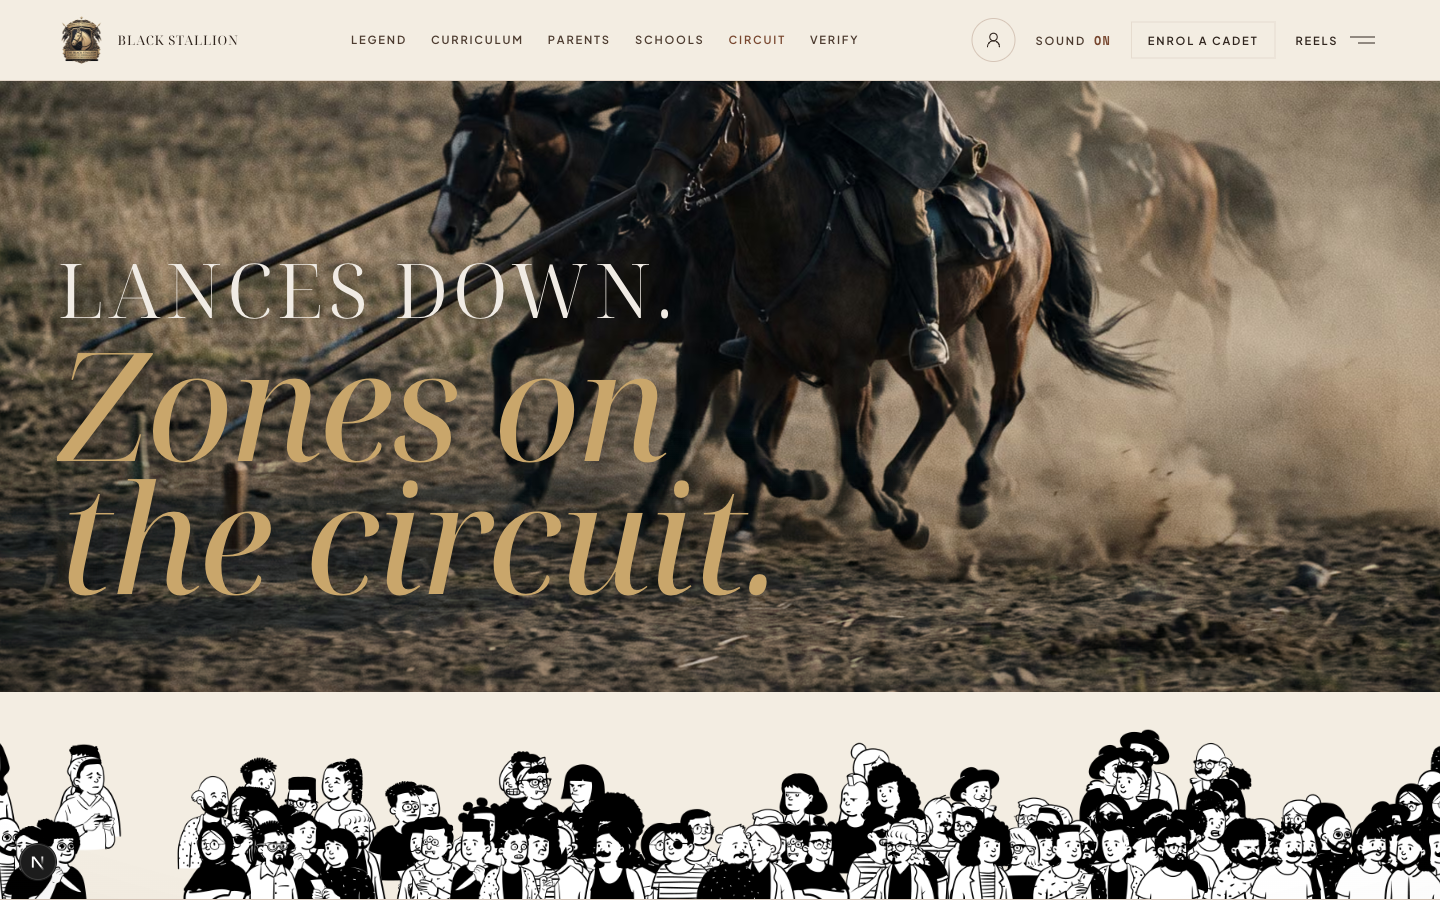
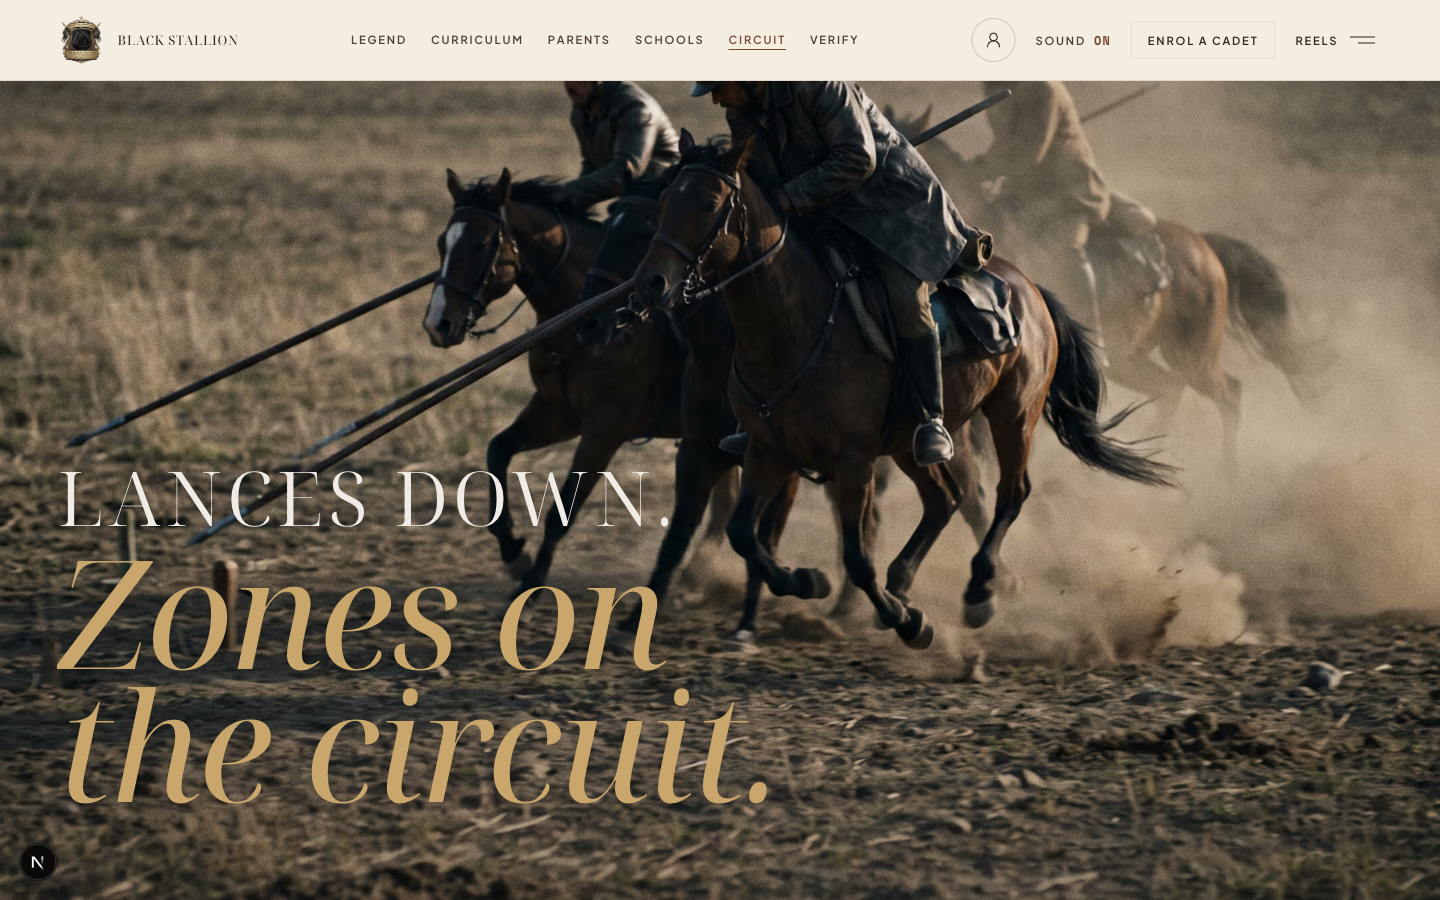
Remove the walking-crowd animation from the whole site; smaller footer badges
- The crowd is gone from /tournaments (title scene and page foot); the title photo is full screen again.
  CrowdCanvas, CircuitCrowd and the sprite sheet are deleted (they stay in git history).
- Footer academy and council badges 56 to 64 px (was 80 to 96); the circuit seal 64 to 80 px.

Typecheck and lint (0 errors) pass; no canvases on /tournaments or in the menu; no sideways scroll at 390 and 1440 px.

diff --git a/components/sections/tournaments/TournamentScenes.tsx b/components/sections/tournaments/TournamentScenes.tsx
@@ -10,7 +10,6 @@ import { FilmImage } from "@/components/film/FilmImage";
 import { Headline } from "@/components/film/Headline";
 import { Arrow, Label, ReelMark } from "@/components/film/Marks";
 import { CountUp } from "@/components/motion/CountUp";
-import { CrowdCanvas } from "@/components/motion/CrowdCanvas";
 import { champions, standings, tournaments } from "@/lib/content/records";
 import { ease } from "@/lib/motion/tokens";
 import { cn } from "@/lib/utils";
@@ -20,7 +19,7 @@ import { CinematicStoryReel, type ReelSlide } from "@/components/film/CinematicS
 export function CircuitTitle() {
   return (
     <section aria-labelledby="circuit-title" className="editorial-scene">
-<div className="tone-dark editorial-visual relative min-h-[calc(100svh-13rem)] overflow-hidden bg-night">
+<div className="tone-dark editorial-visual relative min-h-[100svh] overflow-hidden bg-night">
       <motion.div className="absolute inset-x-0 bottom-0 top-16 md:top-20" initial={{ x: "4%" }} animate={{ x: "0%" }} transition={{ duration: 2.4, ease: ease.citadel }}>
         <FilmImage name="bgCharge" priority bleed />
       </motion.div>
@@ -37,17 +36,12 @@ export function CircuitTitle() {
         ))}
       </div>
       <div aria-hidden className="absolute inset-0 shade-b" />
-      <div className="gutter relative flex min-h-[calc(100svh-13rem)] flex-col justify-end pb-[8vh]">
+      <div className="gutter relative flex min-h-[100svh] flex-col justify-end pb-[8vh]">
         
         <Headline id="circuit-title" as="h1" size="poster" animate="mount" delay={0.4} className="mt-6" inscription="Lances down." voice="Zones on the circuit." />
         
       </div>
     </div>
-{/* The crowd: the people who came to watch walk the foot of the title scene, on the page's ivory (31 Oct 2026; was a mid-page band).
-    The canvas is decorative and stands still under reduced motion. */}
-<div className="tone-light relative h-[13rem] w-full overflow-hidden border-b border-line bg-night">
-  <CrowdCanvas src="/animations/crowd-peeps.png" rows={15} cols={7} scale={0.4} className="absolute bottom-0 h-full w-full" />
-</div>
 {/* The circuit is the council's: its seal stands beside the line that names it (supplied artwork, background removed). */}
 <div className="tone-light editorial-details gutter flex flex-wrap items-center justify-between gap-x-12 gap-y-8">
   <div className="min-w-0 max-w-2xl">
@@ -55,7 +49,7 @@ export function CircuitTitle() {
     <ScrollRevealText className="t-story mt-6 text-sand">The STPCI interscholastic circuit: tent pegging, barrel racing and mounted archery between India&rsquo;s schools.</ScrollRevealText>
   </div>
   <figure className="flex shrink-0 items-center gap-5">
-    <Image src="/brand/stpci-medal.webp" alt="School Tent Pegging Council of India seal" width={720} height={745} className="h-24 w-auto object-contain md:h-28" />
+    <Image src="/brand/stpci-medal.webp" alt="School Tent Pegging Council of India seal" width={720} height={745} className="h-16 w-auto object-contain md:h-20" />
     <figcaption className="label max-w-[12rem] leading-relaxed text-dust">Sanctioned by the School Tent Pegging Council of India</figcaption>
   </figure>
 </div>

diff --git a/components/site/Footer.tsx b/components/site/Footer.tsx
@@ -110,15 +110,15 @@ function PublicFooter() {
       {/* Content block: brand emblem, wordmark, tagline, nav and legal copy */}
       <div className="footer-meridian__content">
         {/* The two seals as supplied (backgrounds removed, nothing redrawn): the academy and its governing council. */}
-        <div className="footer-meridian__mark flex flex-wrap items-end justify-center gap-x-10 gap-y-6">
+        <div className="footer-meridian__mark flex flex-wrap items-end justify-center gap-x-8 gap-y-5">
           <figure className="flex flex-col items-center gap-3">
             {/* The 192 px logo, served as is (unoptimized): it shows at 80 to 96 px, and the image optimiser can flatten a cut-out logo onto a dark square or serve a stale copy of it. */}
-            <Image src={LOGO.sm} alt="The Black Stallion Academy of Horsemanship crest" width={192} height={192} unoptimized className="h-20 w-20 sm:h-24 sm:w-24" />
+            <Image src={LOGO.sm} alt="The Black Stallion Academy of Horsemanship crest" width={192} height={192} unoptimized className="h-14 w-14 sm:h-16 sm:w-16" />
             <figcaption className="label text-[0.62rem]">The academy</figcaption>
           </figure>
-          <span aria-hidden="true" className="hidden h-16 w-px bg-current opacity-25 sm:block" />
+          <span aria-hidden="true" className="hidden h-10 w-px bg-current opacity-25 sm:block" />
           <figure className="flex flex-col items-center gap-3">
-            <Image src="/brand/stpci-medal.webp" alt="School Tent Pegging Council of India seal" width={720} height={745} className="h-20 w-auto object-contain sm:h-24" />
+            <Image src="/brand/stpci-medal.webp" alt="School Tent Pegging Council of India seal" width={720} height={745} className="h-14 w-auto object-contain sm:h-16" />
             <figcaption className="label text-[0.62rem]">The council</figcaption>
           </figure>
         </div>

diff --git a/app/tournaments/page.tsx b/app/tournaments/page.tsx
@@ -1,7 +1,6 @@
 import type { Metadata } from "next";
 import { EndCard } from "@/components/film/EndCard";
 import { CircuitTitle, FixtureBoard, Podium, StandingsLanes, TournamentActionGallery } from "@/components/sections/tournaments/TournamentScenes";
-import { CircuitCrowd } from "@/components/sections/tournaments/CircuitCrowd";
 import { PegRun } from "@/components/sections/tournaments/PegRun";
 import { HorizontalChapter } from "@/components/motion/HorizontalChapter";
 import { ReplayHeadline } from "@/components/motion/ReplayHeadline";
@@ -24,7 +23,6 @@ export default function TournamentsPage() {
       <Podium />
       <ReplayHeadline typeface="condensed" id="tournaments-replay" label="The circuit doctrine" text="Victory belongs to the disciplined rein." tone="dark" defaultMode="words" />
       <EndCard current={13} />
-      <CircuitCrowd />
     </>
   );
 }

diff --git a/docs/ADDED-SCENES.md b/docs/ADDED-SCENES.md
@@ -6,8 +6,7 @@ the colours and the reduced-motion behaviour were made the site's own.
 | Piece | Where | Files |
 | --- | --- | --- |
 | **The robot** | `/command` ("The Command"), the full-screen opening scene: dark band, raking light, one heading and one line, robot on the right (moved from `/science` 31 Oct, owner's request) | `components/sections/command/CommandHero.tsx`, `components/ui/splite.tsx`, `components/ui/spotlight.tsx` |
-| **The walking crowd** | `/tournaments`, the foot of the title scene; and the foot of the reels menu, above the word "Chapters", where the act zones (Hook / Proof / Convert) used to be (31 Oct) | `components/sections/tournaments/TournamentScenes.tsx` (`CircuitTitle`), `components/motion/CrowdCanvas.tsx`, `public/animations/crowd-peeps.png` |
-| **The chart set** | `/admin` (and the SAMPLE preview at `/dev/admin-dashboard`), above the existing dashboard | `components/sections/admin/dashboard/EnquiryBento.tsx`, `components/ui/analytics-bento.tsx` |
+| **The chart set** | `/admin` (and the SAMPLE preview at `/dev/admin-dashboard`), below the Overview and its stat cards | `components/sections/admin/dashboard/EnquiryBento.tsx`, `components/ui/analytics-bento.tsx` |
 
 ## The robot (Spline)
 
@@ -25,15 +24,9 @@ _31 Oct 2026: now on `/command` (`CommandHero.tsx`); the notes below were writte
 - **Not covered:** the robot itself cannot be made still for reduced motion (it is Spline's own idle animation inside their runtime).
   The raking light does respect it. If the owner wants the whole scene off on a phone, hide the wrapper under `md:`.
 
-## The walking crowd (canvas + GSAP)
+## The walking crowd (removed)
 
-- `gsap` was already a dependency; nothing new was installed.
-- The sprite sheet was downloaded from the CDN in the snippet and now lives in the repository (`public/animations/crowd-peeps.png`,
-  3600 × 2268, 15 × 7 figures), so the page does not depend on someone else's CDN.
-- `scale` was added to the component: the figures are drawn at about half size so whole people fit the band.
-- **Reduced motion:** the crowd is drawn once and stands still (no GSAP ticker). Checked in a browser both ways.
-- **Attribution:** Skiper UI's free version requires it; the credit block is kept verbatim at the foot of `CrowdCanvas.tsx`.
-  The figures are Open Peeps.
+Removed from the whole site on 31 Oct 2026 at the owner's request (it had been on `/tournaments`, in the reels menu and at the foot of the page). The component (`CrowdCanvas.tsx`, Skiper UI Skiper39, Open Peeps figures) and the sprite sheet (`public/animations/crowd-peeps.png`) are deleted; both are in git history (commit `a4348c8` and earlier) if it is ever wanted back.
 
 ## The chart set (staff dashboard)
 

diff --git a/PROGRESS.md b/PROGRESS.md
@@ -666,6 +666,7 @@ Owner: the admin dashboard was very static; rebuild it with the references (a co
   - Tablet pass (768 and 1024): no sideways scroll on `/command`, `/fleet`, the console, sign-in or the cadet gallery. Fixed one older overflow on `/fleet` at 768 px (the bloodline rows' four-column grid now starts at 1024 px).
   - Reels menu back to its original structure (three act columns, number and title rows, the "3D Model" tag) on the parchment colours, the "CHAPTERS" word kept, the crowd taken out. The crowd now also walks a band at the very foot of `/tournaments`, above the footer (`CircuitCrowd`); the title-scene crowd stays.
   - Logo fix: the footer showed a dark square (the image optimiser served a stale copy of the old crest, and browsers cache `/brand/*` for a day). The footer uses the 192 px file as is, and `LOGO` in `lib/content/site.ts` carries `?v=2` (bump it whenever the artwork changes).
+  - Walking crowd removed from the whole site (owner's request): the title-scene band and the foot band on `/tournaments` are gone, the title photo is full screen again, and `CrowdCanvas`, `CircuitCrowd` and `public/animations/crowd-peeps.png` are deleted (in git history). Footer badges (academy and council) are smaller (56 to 64 px, was 80 to 96); the circuit seal 64 to 80 px.
   - QA: `docs/qa/redesign-31oct/` (1440 and 390). Typecheck and lint (0 errors) pass; build result in the commit message.
 - [x] **31 Oct 2026 · Supplied scenes moved (owner's request).**
   - `/science` robot: the dark stage and raking light are gone; the Spline scene (transparent backdrop, animation untouched) now stands on the page's ivory, its cut-off legs fading out. Spotlight no longer used there.
